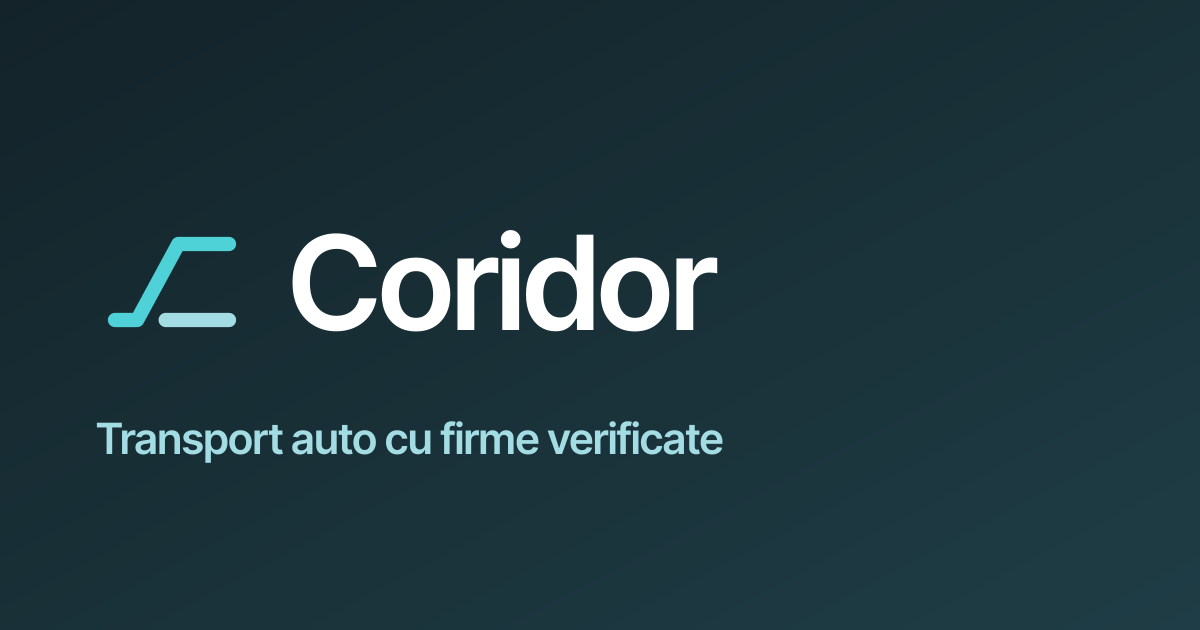
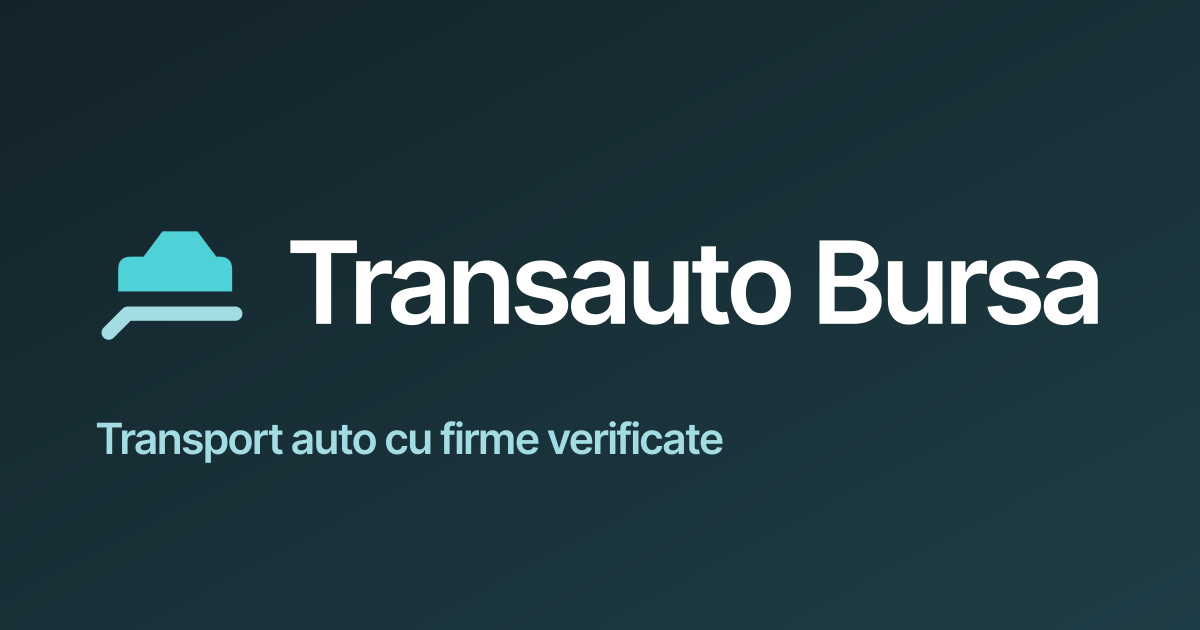
Name Transauto Bursa and a new mark: a car on a carrier's deck
BRAND_NAME is set in src/config/brand.ts; everything else reads it, and
tests/unit/brand.test.ts still finds the name nowhere else. The metadata
description, the homepage description and the manifest name now carry
it, and the footer no longer says „bursă" right after a name that ends
in Bursa.

Two marks were drawn and compared at 16, 32 and 96 px on light and dark
(docs/21-sigla.md). The new one, a filled car standing on a deck that
drops into the loading ramp, replaces the two-stroke ramp: a filled
silhouette survives 16 px, a thin diagonal turns into half-toned steps.
pnpm brand regenerated every icon, the social image and the edge copy.

The verification SMS was 77 characters with the new name. With ă and î
in it that is a Unicode message, 70 characters to a segment, so two SMS
every time; it is now 68, and a Deno test measures it with the real name.

Claude-Session: https://claude.ai/code/session_014JfXrCQTTUCVegYmTmN2E4

Changed region(s): [[0.2467, 0.3619, 0.925, 0.5429], [0.0617, 0.3619, 0.2158, 0.5429]]

diff --git a/src/config/brand-mark.ts b/src/config/brand-mark.ts
@@ -1,10 +1,16 @@
 /**
- * The mark: the two decks of a car carrier and the ramp between them.
+ * The mark: a car standing on the deck of a car carrier, whose rear end
+ * drops into the loading ramp.
  *
- * Two strokes on a 24-unit grid. The first climbs from the ground, up the
- * ramp, and runs along the upper deck; the second is the lower deck, under
- * it. Read quickly it is also a step up, and two lanes of one corridor.
- * It carries no letter, so it survives a change of name untouched.
+ * Two shapes on a 24-unit grid: the car, filled — a body and a cabin, no
+ * wheels, because it is standing on something — and the deck, a stroke
+ * that runs under it and bends down at the back. It carries no letter, so
+ * it survives a change of name untouched.
+ *
+ * Chosen over the earlier two-stroke „ramp and decks" mark because it
+ * stays legible at 16px: a filled silhouette survives the pixel grid,
+ * a thin diagonal turns into a staircase of half-tones. Both are drawn
+ * side by side in `docs/21-sigla.md`.
  *
  * Pure data with no imports, because four places draw it and not all of
  * them can import a component: `<LogoMark>` in the browser, the icon
@@ -17,10 +23,10 @@
 export const MARK = {
   /** The side of the square grid the paths are drawn on. */
   grid: 24,
-  /** The ramp and the upper deck: the stroke that carries the accent. */
-  ramp: 'M3 18 H6.5 L13 6 H21',
-  /** The lower deck, in ink. */
-  deck: 'M11 18 H21',
+  /** The car, a filled shape: the part that carries the accent. */
+  car: 'M3.5 13.5 V10 Q3.5 8 5.5 8 H7.5 L10.5 4 H16 L19 8 H19.5 Q21.5 8 21.5 10 V13.5 Z',
+  /** The deck and its ramp, a stroke, in ink. */
+  deck: 'M2 20 L5 17 H22',
 } as const;
 
 /** The sizes the mark is drawn at in the interface, in CSS pixels. */
@@ -28,11 +34,11 @@ export const MARK_SIZES = [16, 24, 32, 48] as const;
 export type MarkSize = (typeof MARK_SIZES)[number];
 
 /**
- * Stroke width in grid units, per rendered size.
+ * Stroke width of the deck in grid units, per rendered size.
  *
- * Heavier when small: at 16px a 2.25-unit stroke is 1.5px and the two
- * lines smear into one; at 3 units they are 2px each with a pixel of
- * ground between them. At 48px the same 3 units would look swollen.
+ * Heavier when small: at 16px a 2.25-unit stroke is 1.5px and fades into
+ * the car above it; at 3 units it is 2px with ground between the two.
+ * At 48px the same 3 units would look swollen.
  */
 export function markStroke(px: number): number {
   if (px <= 16) return 3;

diff --git a/tests/unit/logo.test.tsx b/tests/unit/logo.test.tsx
@@ -17,7 +17,7 @@ describe('the mark', () => {
       expect(html).toContain(`height="${size}"`);
       expect(html).toContain(`viewBox="0 0 ${MARK.grid} ${MARK.grid}"`);
       expect(html).toContain(`stroke-width="${markStroke(size)}"`);
-      expect(html).toContain(`d="${MARK.ramp}"`);
+      expect(html).toContain(`d="${MARK.car}"`);
       expect(html).toContain(`d="${MARK.deck}"`);
       // Decorative: the name is always beside it or in an sr-only span.
       expect(html).toContain('aria-hidden="true"');
@@ -33,11 +33,13 @@ describe('the mark', () => {
 
   it('in colour follows the surface; monochrome follows the text', () => {
     const colour = renderToStaticMarkup(<LogoMark tone="color" />);
-    expect(colour).toContain('stroke-accent');
-    expect(colour).toContain('in-data-[surface=dark]:stroke-accent-bright');
+    expect(colour).toContain('fill-accent');
+    expect(colour).toContain('in-data-[surface=dark]:fill-accent-bright');
     expect(colour).toContain('in-data-[surface=dark]:stroke-accent-on-dark');
+    // One colour: the car filled and the deck stroked with the text colour.
     const mono = renderToStaticMarkup(<LogoMark tone="mono" />);
-    expect(mono.match(/stroke-current/g)).toHaveLength(2);
+    expect(mono.match(/fill-current/g)).toHaveLength(1);
+    expect(mono.match(/stroke-current/g)).toHaveLength(1);
     expect(mono).not.toContain('accent');
   });
 
@@ -53,7 +55,7 @@ describe('the lockup', () => {
     const html = renderToStaticMarkup(<Logo layout={layout} />);
     expect(html).toContain(`data-logo="${layout}"`);
     expect(html).toContain(`>${BRAND_NAME}</span>`);
-    expect(html).toContain(`d="${MARK.ramp}"`);
+    expect(html).toContain(`d="${MARK.car}"`);
   });
 
   it('draws the word in the display face beside or under the mark', () => {

diff --git a/src/components/brand/logo-mark.tsx b/src/components/brand/logo-mark.tsx
@@ -14,12 +14,12 @@ export type MarkTone = 'color' | 'mono';
  * passing a prop. `mono` is one colour, the text colour around it — for a
  * print, a stamp-sized use, or a surface we have not measured.
  */
-const TONES: Record<MarkTone, { ramp: string; deck: string }> = {
+const TONES: Record<MarkTone, { car: string; deck: string }> = {
   color: {
-    ramp: 'stroke-accent in-data-[surface=dark]:stroke-accent-bright',
+    car: 'fill-accent in-data-[surface=dark]:fill-accent-bright',
     deck: 'stroke-foreground in-data-[surface=dark]:stroke-accent-on-dark',
   },
-  mono: { ramp: 'stroke-current', deck: 'stroke-current' },
+  mono: { car: 'fill-current', deck: 'stroke-current' },
 };
 
 /**
@@ -44,18 +44,21 @@ export function LogoMark({
       width={size}
       height={size}
       viewBox={`0 0 ${MARK.grid} ${MARK.grid}`}
-      fill="none"
-      strokeWidth={markStroke(size)}
-      strokeLinecap="round"
-      strokeLinejoin="round"
       aria-hidden="true"
       focusable="false"
       data-logo-mark={tone}
       data-size={size}
       className={cn('flex-none', className)}
     >
-      <path d={MARK.deck} className={stroke.deck} />
-      <path d={MARK.ramp} className={stroke.ramp} />
+      <path d={MARK.car} className={stroke.car} />
+      <path
+        d={MARK.deck}
+        fill="none"
+        strokeWidth={markStroke(size)}
+        strokeLinecap="round"
+        strokeLinejoin="round"
+        className={stroke.deck}
+      />
     </svg>
   );
 }

diff --git a/supabase/functions/sms-verify/provider_test.ts b/supabase/functions/sms-verify/provider_test.ts
@@ -1,4 +1,5 @@
 import { assert, assertEquals } from "jsr:@std/assert@1";
+import { BRAND_NAME } from "../_shared/brand.ts";
 import {
   generateCode,
   hashCode,
@@ -150,8 +151,15 @@ Deno.test("the message says what it is, how long it lasts and not to share it", 
   assert(message.includes("Exemplu"));
   assert(message.includes("10 minute"));
   assert(message.includes("Nu îl da nimănui"));
-  // An SMS is 160 characters, and every one over that is a second SMS.
-  assert(message.length <= 160, `${message.length} de caractere`);
+});
+
+Deno.test("with the platform's real name it is one SMS, not two", () => {
+  // ă, î, ș and ț are not in the GSM 7-bit alphabet, so the message goes
+  // as UCS-2, whose single segment is 70 characters, not 160. The old
+  // text was 77 with the new name: two SMS, twice the price, every time.
+  const message = verificationMessage("123456", BRAND_NAME);
+  assert(/[ăâîșț]/.test(message), "the Unicode limit applies");
+  assert(message.length <= 70, `${message.length} de caractere`);
 });
 
 Deno.test("the hash is what the database stores, and the code is not in it", async () => {

diff --git a/scripts/brand/generate.ts b/scripts/brand/generate.ts
@@ -67,11 +67,11 @@ export function readTokens(root: string): Tokens {
   return out;
 }
 
-/** The two strokes, on the 24-unit grid. */
-function glyph(ramp: string, deck: string, stroke: number): string {
+/** The car and the deck, on the 24-unit grid. */
+function glyph(car: string, deck: string, stroke: number): string {
   return (
-    `<g fill="none" stroke-width="${stroke}" stroke-linecap="round" stroke-linejoin="round">` +
-    `<path d="${MARK.deck}" stroke="${deck}"/><path d="${MARK.ramp}" stroke="${ramp}"/></g>`
+    `<path d="${MARK.car}" fill="${car}"/>` +
+    `<path d="${MARK.deck}" fill="none" stroke="${deck}" stroke-width="${stroke}" stroke-linecap="round" stroke-linejoin="round"/>`
   );
 }
 
@@ -198,7 +198,7 @@ export const BRAND_SLUG = ${JSON.stringify(BRAND_SLUG)};
 
 export const MARK = {
   grid: ${MARK.grid},
-  ramp: ${JSON.stringify(MARK.ramp)},
+  car: ${JSON.stringify(MARK.car)},
   deck: ${JSON.stringify(MARK.deck)},
 } as const;
 `;

diff --git a/src/config/brand.ts b/src/config/brand.ts
@@ -1,13 +1,16 @@
 /**
- * The brand name is not trademark-checked yet, so it lives in exactly one
- * place. Never hardcode it in a component.
+ * The platform's name, decided on 25 September 2026. It lives in exactly
+ * one place: every page, e-mail, icon and document reads it from here, and
+ * `tests/unit/brand.test.ts` fails when it is written anywhere else. After
+ * changing it, run `pnpm brand`. Not yet checked against registered
+ * trademarks (OSIM, EUIPO).
  */
-export const BRAND_NAME = 'Coridor' as const;
+export const BRAND_NAME = 'Transauto Bursa' as const;
 
 /**
  * The name in lowercase ASCII letters and digits, for the places a name
  * has to be a token: a file name, a crawler's name in a robots.txt group.
- * „Rută Nouă" would be „rutanoua".
+ * „Rută Nouă" would be „rutanoua"; this one is „transautobursa".
  */
 export const BRAND_SLUG = BRAND_NAME.normalize('NFD')
   .replace(/[\u0300-\u036f]/g, '')

diff --git a/supabase/functions/contract-pdf/render.ts b/supabase/functions/contract-pdf/render.ts
@@ -69,6 +69,7 @@ export interface PdfDoc {
   lineWidth(width: number): PdfDoc;
   lineCap(cap: string): PdfDoc;
   lineJoin(join: string): PdfDoc;
+  fill(color?: string): PdfDoc;
   save(): PdfDoc;
   restore(): PdfDoc;
   translate(x: number, y: number): PdfDoc;
@@ -228,9 +229,9 @@ export async function renderContractPdf(contract: ContractDocument, deps: Render
   const markPt = 14;
   doc.save();
   doc.translate(left, y).scale(markPt / MARK.grid);
+  doc.path(MARK.car).fill(PRINT.color.muted);
   doc.lineWidth(2.75).lineCap('round').lineJoin('round').strokeColor(PRINT.color.muted);
   doc.path(MARK.deck).stroke();
-  doc.path(MARK.ramp).stroke();
   doc.restore();
   style(SEMIBOLD, PRINT.size.small, PRINT.color.muted);
   doc.text(contract.info.author, left + markPt + 2 * PRINT.step, y + (markPt - PRINT.size.small * 1.21) / 2, {

diff --git a/supabase/functions/sms-verify/provider.ts b/supabase/functions/sms-verify/provider.ts
@@ -153,7 +153,10 @@ function defaultRandom(n: number): Uint8Array {
 
 /** The SMS itself. Short, because an SMS is 160 characters and costs money. */
 export function verificationMessage(code: string, brand: string): string {
-  return `${code} este codul tău ${brand}. Expiră în 10 minute. Nu îl da nimănui.`;
+  // One SMS, not two: ă and î make it a Unicode message, whose single
+  // segment holds 70 characters rather than 160. With the platform's name
+  // this is 68; the test measures it with the real name.
+  return `${code} e codul ${brand}, valabil 10 minute. Nu îl da nimănui.`;
 }
 
 /** `sha256` hex of the code, which is all the database ever sees. */

diff --git a/src/app/page.tsx b/src/app/page.tsx
@@ -16,8 +16,7 @@ import { StatsBand } from '@/components/home/stats-band';
 import { BRAND_NAME } from '@/config/brand';
 
 const TITLE = `${BRAND_NAME} — transport auto cu firme verificate`;
-const DESCRIPTION =
-  'Publici gratuit cererea de transport auto și primești oferte doar de la transportatori cu documente valabile. Rute naționale și internaționale, tarife orientative.';
+const DESCRIPTION = `Pe ${BRAND_NAME} publici gratuit cererea de transport auto și primești oferte doar de la transportatori cu documente valabile. Rute naționale și internaționale, tarife orientative.`;
 
 export const metadata: Metadata = {
   title: { absolute: TITLE },

diff --git a/src/app/layout.tsx b/src/app/layout.tsx
@@ -58,8 +58,7 @@ export const metadata: Metadata = {
     default: `${BRAND_NAME} — ${BRAND_TAGLINE_RO}`,
     template: `%s — ${BRAND_NAME}`,
   },
-  description:
-    'Bursă de transport auto pentru România și Europa. Cereri de transport și transportatori cu documente verificate.',
+  description: `${BRAND_NAME}: bursa de transport auto pentru România și Europa. Cereri de transport și transportatori cu documente verificate.`,
   // The homepage sets its own title, description and Open Graph values from
   // the copy in the homepage brief. These are the app-wide defaults.
   // One flag, read in one place — `NEXT_PUBLIC_SEO_INDEXABLE=1` on the

diff --git a/supabase/functions/_shared/brand.ts b/supabase/functions/_shared/brand.ts
@@ -5,13 +5,13 @@
 // import from src/, so the name and the mark reach them through this copy.
 // tests/unit/brand.test.ts fails when it falls behind.
 
-export const BRAND_NAME = "Coridor";
+export const BRAND_NAME = "Transauto Bursa";
 
 /** Lowercase ASCII letters and digits: a file name, a crawler's name. */
-export const BRAND_SLUG = "coridor";
+export const BRAND_SLUG = "transautobursa";
 
 export const MARK = {
   grid: 24,
-  ramp: "M3 18 H6.5 L13 6 H21",
-  deck: "M11 18 H21",
+  car: "M3.5 13.5 V10 Q3.5 8 5.5 8 H7.5 L10.5 4 H16 L19 8 H19.5 Q21.5 8 21.5 10 V13.5 Z",
+  deck: "M2 20 L5 17 H22",
 } as const;

diff --git a/src/app/manifest.ts b/src/app/manifest.ts
@@ -13,10 +13,9 @@ import { BACKGROUND_COLOR, THEME_COLOR } from '@/config/theme';
  */
 export default function manifest(): MetadataRoute.Manifest {
   return {
-    name: `${BRAND_NAME} — transport auto`,
+    name: BRAND_NAME,
     short_name: BRAND_NAME,
-    description:
-      'Bursă de transport auto pentru România și Europa. Cereri, trasee și transportatori cu documente verificate.',
+    description: `${BRAND_NAME}: bursa de transport auto pentru România și Europa. Cereri, trasee și transportatori cu documente verificate.`,
     lang: 'ro',
     dir: 'ltr',
     start_url: ROUTES.account,
